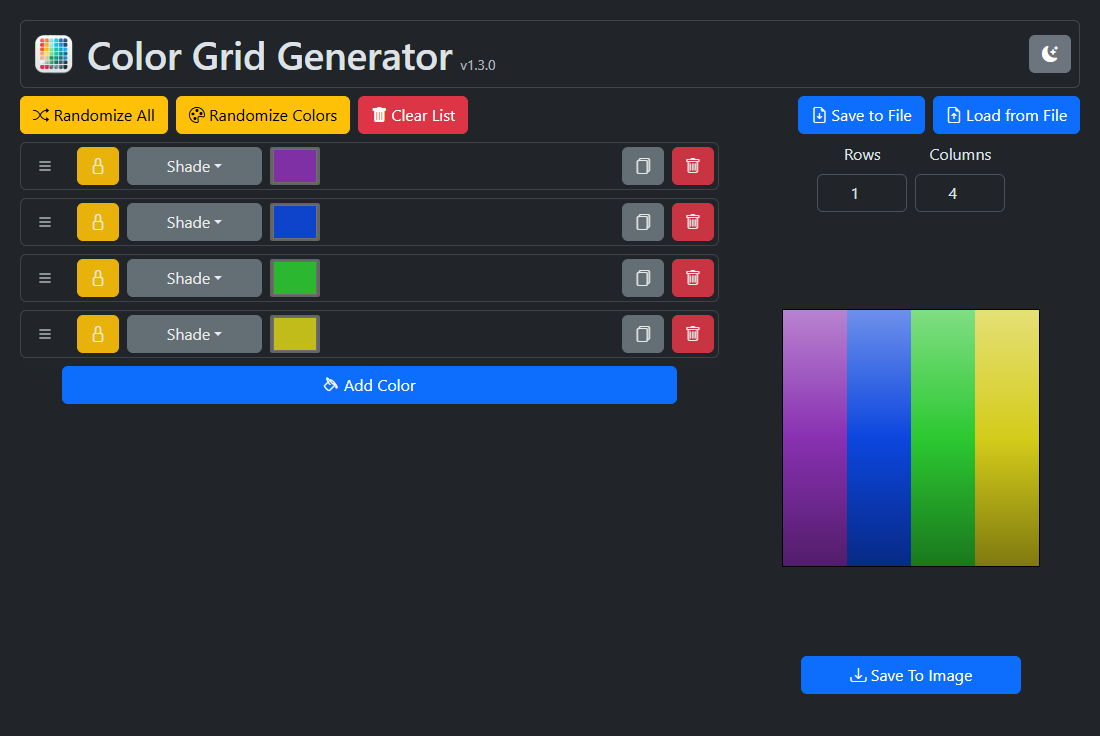
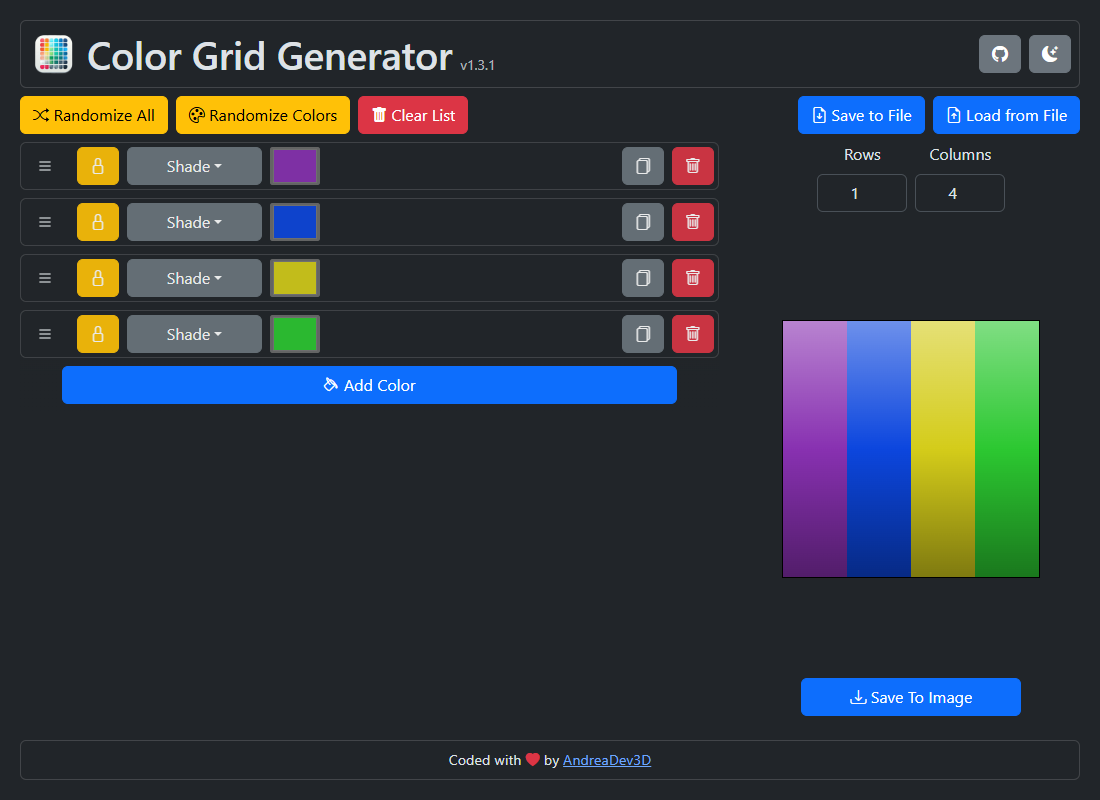
chore: Add links and footer

diff --git a/index.html b/index.html
@@ -23,11 +23,17 @@
         <img class="logo" src="img/logo.png" alt="Color Grid Generator Logo" width="50" height="50">
         <div class="d-flex align-items-baseline">
             <h1 class="mb-0">Color Grid Generator</h1>
-            <small class="text-muted ms-2">v1.3.0</small>
+            <small class="text-muted ms-2">v1.3.1</small>
         </div>
-        <button id="theme-toggle" class="btn btn-secondary ms-auto">
-            <i id="theme-icon" class="bi bi-moon-stars-fill"></i>
-        </button>
+        <div class="ms-auto hstack gap-2">
+            <a href="https://github.com/AndreaDev3D/ColorGridGenerator" class="btn btn-secondary" target="_blank"
+                title="View on GitHub">
+                <i class="bi bi-github"></i>
+            </a>
+            <button id="theme-toggle" class="btn btn-secondary">
+                <i id="theme-icon" class="bi bi-moon-stars-fill"></i>
+            </button>
+        </div>
     </header>
 
     <div class="controls hstack gap-2 my-2">
@@ -90,6 +96,13 @@
                 Image</button>
         </div>
     </div>
+
+    <footer class="card text-center p-2 mt-3">
+        <div>
+            Coded with <i class="bi bi-heart-fill text-danger"></i> by <a
+                href="https://github.com/AndreaDev3D">AndreaDev3D</a>
+        </div>
+    </footer>
 
     <script src="https://cdn.jsdelivr.net/npm/@popperjs/core@2.11.8/dist/umd/popper.min.js"
         integrity="sha384-I7E8VVD/ismYTF4hNIPjVp/Zjvgyol6VFvRkX/vR+Vc4jQkC+hVqc2pM8ODewa9r"

diff --git a/css/style.css b/css/style.css
@@ -1,5 +1,8 @@
 body {
     padding: 20px;
+    min-height: 100vh;
+    display: flex;
+    flex-direction: column;
 }
 
 #canvas {
@@ -14,6 +17,7 @@ body {
 
 .row-scrollable {
     min-height: 35rem;
+    flex: 1 0 auto;
 }
 
 input[type="color"] {
@@ -88,4 +92,11 @@ input[type="color"] {
 .color-row.locked .lockColor:hover {
     background-color: var(--bs-warning-bg-subtle);
     border-color: var(--bs-warning);
+}
+
+/* Add styles for the footer */
+footer {
+    margin-top: auto;
+    font-size: 0.9rem;
+    flex-shrink: 0;
 }
